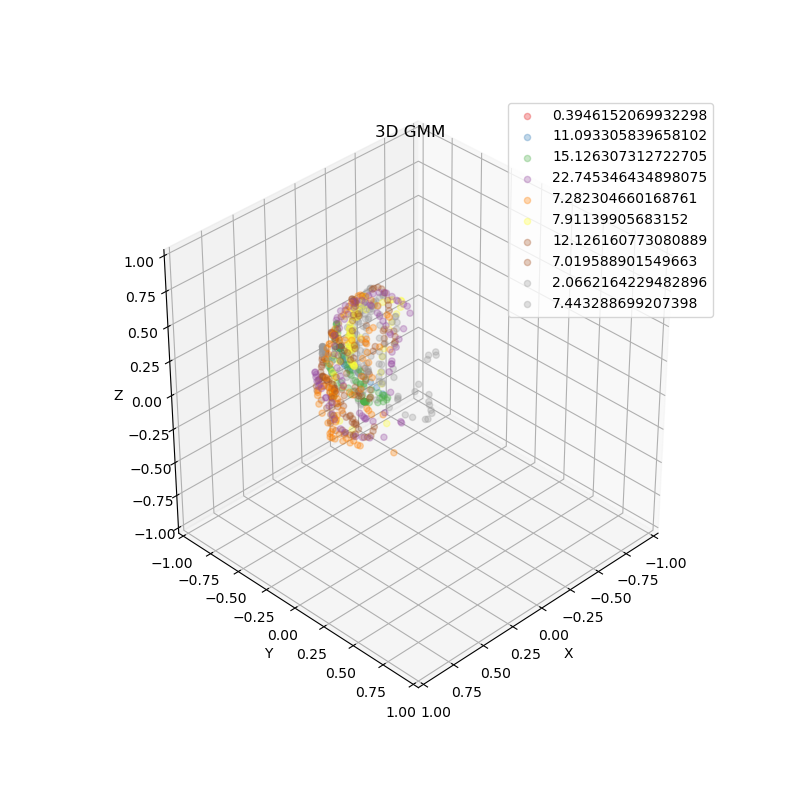
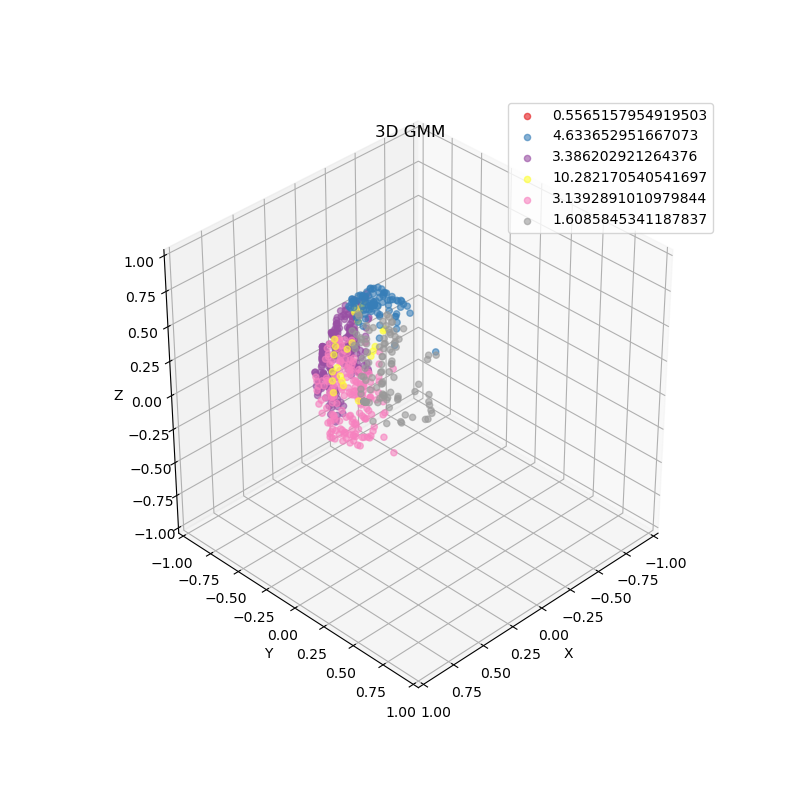
fixed colouring on gmm to actual classes

Changed region(s): [[0.625, 0.125, 0.9062, 0.4062], [0.375, 0.3438, 0.5625, 0.5625], [0.5312, 0.4375, 0.5625, 0.4688]]

diff --git a/scripts/analytics/analytics_utils.py b/scripts/analytics/analytics_utils.py
@@ -101,78 +101,95 @@ def gen_bins(low, high, res=100):
 
 #https://github.com/sitzikbs/gmm_tutorial
 
-def visualize_3d_gmm(points, w, mu, stdev, export=True):
-    '''
-    plots points and their corresponding gmm model in 3D
-    Input: 
-        points: N X 3, sampled points
-        w: n_gaussians, gmm weights
-        mu: 3 X n_gaussians, gmm means
-        stdev: 3 X n_gaussians, gmm standard deviation (assuming diagonal covariance matrix)
-    Output:
-        None
-    '''
+def visualize_3d_gmm(points, w, mu, stdev, cls, export=True):
+	'''
+	plots points and their corresponding gmm model in 3D
+	Input: 
+		points: N X 3, sampled points
+		w: n_gaussians, gmm weights
+		mu: 3 X n_gaussians, gmm means
+		stdev: 3 X n_gaussians, gmm standard deviation (assuming diagonal covariance matrix)
+	Output:
+		None
+	'''
 
-    n_gaussians = mu.shape[1]
-    N = int(np.round(points.shape[0] // n_gaussians))
-    # Visualize data
-    fig = plt.figure(figsize=(8, 8))
-    axes = fig.add_subplot(111, projection='3d')
-    axes.set_xlim([-1, 1])
-    axes.set_ylim([-1, 1])
-    axes.set_zlim([-1, 1])
-    plt.set_cmap('Set1')
-    colors = cmx.Set1(np.linspace(0, 1, n_gaussians))
-    print("w", w)
-    print("mu", mu)
-    print("stdev", stdev)
-    for i in range(n_gaussians):
-        print(i)
-        idx = range(i * N, (i + 1) * N)
-        print(idx)
-        point_set = axes.scatter(points[idx, 0], points[idx, 1], points[idx, 2], alpha=0.3, c=colors[i])
-        point_set.set_label(f"{np.linalg.norm(mu[3:, i])}")
-        # plot_sphere(w=w[i], c=mu[:, i], r=stdev[:, i], ax=axes)
+	n_gaussians = mu.shape[1]
+	N = int(np.round(points.shape[0] // n_gaussians))
+	# Visualize data
+	fig = plt.figure(figsize=(8, 8))
+	axes = fig.add_subplot(111, projection='3d')
+	axes.set_xlim([-1, 1])
+	axes.set_ylim([-1, 1])
+	axes.set_zlim([-1, 1])
+	plt.set_cmap('Set1')
+	colorset = cmx.Set1(np.linspace(0, 1, n_gaussians))
+	colors = np.zeros((points.shape[0], colorset.shape[1]))
+	for c in range(len(colors)):
+		colors[c] = colorset[cls[c]]
+	# print("w", w)
+	# print("mu", mu)
+	# print("stdev", stdev)
+	point_sets = []
+	
+	for i in range(n_gaussians):
+		point_sets.append([])
 
-    plt.title('3D GMM')
-    axes.set_xlabel('X')
-    axes.set_ylabel('Y')
-    axes.set_zlabel('Z')
-    axes.legend()
-    axes.view_init(35.246, 45)
-    if export:
-        if not os.path.exists('images/'): os.mkdir('images/')
-        plt.savefig('images/3D_GMM_demonstration.png', dpi=100, format='png')
-    plt.show()
+	for i in range(len(points)):
+		point_sets[cls[i]].append(points[i])
+	
+
+	for i in range(len(point_sets)):
+		point_sets[i] = np.array(point_sets[i])
+	for i in range(len(point_sets)):
+		# print(i)
+		# print(colorset[i])
+		point_set = axes.scatter(point_sets[i][:, 0], point_sets[i][:, 1], point_sets[i][:, 2], alpha=0.6, c=[colorset[i]])
+		point_set.set_label(f"{np.linalg.norm(mu[3:, i])}")
+	# for i in range(n_gaussians):
+	# 	idx = range(i * N, (i + 1) * N)
+	# 	point_set = axes.scatter(points[idx, 0], points[idx, 1], points[idx, 2], alpha=0.3, c=colors)
+	# 	point_set.set_label(f"{np.linalg.norm(mu[3:, i])}")
+	# 	# plot_sphere(w=w[i], c=mu[:, i], r=stdev[:, i], ax=axes)
+
+	plt.title('3D GMM')
+	axes.set_xlabel('X')
+	axes.set_ylabel('Y')
+	axes.set_zlabel('Z')
+	axes.legend()
+	axes.view_init(35.246, 45)
+	if export:
+		if not os.path.exists('images/'): os.mkdir('images/')
+		plt.savefig('images/3D_GMM_demonstration.png', dpi=100, format='png')
+	plt.show()
 
 
 def plot_sphere(w=0, c=[0,0,0], r=[1, 1, 1], subdev=10, ax=None, sigma_multiplier=3):
-    '''
-        plot a sphere surface
-        Input: 
-            c: 3 elements list, sphere center
-            r: 3 element list, sphere original scale in each axis ( allowing to draw elipsoids)
-            subdiv: scalar, number of subdivisions (subdivision^2 points sampled on the surface)
-            ax: optional pyplot axis object to plot the sphere in.
-            sigma_multiplier: sphere additional scale (choosing an std value when plotting gaussians)
-        Output:
-            ax: pyplot axis object
-    '''
+	'''
+		plot a sphere surface
+		Input: 
+			c: 3 elements list, sphere center
+			r: 3 element list, sphere original scale in each axis ( allowing to draw elipsoids)
+			subdiv: scalar, number of subdivisions (subdivision^2 points sampled on the surface)
+			ax: optional pyplot axis object to plot the sphere in.
+			sigma_multiplier: sphere additional scale (choosing an std value when plotting gaussians)
+		Output:
+			ax: pyplot axis object
+	'''
 
-    if ax is None:
-        fig = plt.figure()
-        ax = fig.add_subplot(111, projection='3d')
-    pi = np.pi
-    cos = np.cos
-    sin = np.sin
-    phi, theta = np.mgrid[0.0:pi:complex(0,subdev), 0.0:2.0 * pi:complex(0,subdev)]
-    x = sigma_multiplier*r[0] * sin(phi) * cos(theta) + c[0]
-    y = sigma_multiplier*r[1] * sin(phi) * sin(theta) + c[1]
-    z = sigma_multiplier*r[2] * cos(phi) + c[2]
-    cmap = cmx.ScalarMappable()
-    cmap.set_cmap('jet')
-    c = cmap.to_rgba(w)
+	if ax is None:
+		fig = plt.figure()
+		ax = fig.add_subplot(111, projection='3d')
+	pi = np.pi
+	cos = np.cos
+	sin = np.sin
+	phi, theta = np.mgrid[0.0:pi:complex(0,subdev), 0.0:2.0 * pi:complex(0,subdev)]
+	x = sigma_multiplier*r[0] * sin(phi) * cos(theta) + c[0]
+	y = sigma_multiplier*r[1] * sin(phi) * sin(theta) + c[1]
+	z = sigma_multiplier*r[2] * cos(phi) + c[2]
+	cmap = cmx.ScalarMappable()
+	cmap.set_cmap('jet')
+	c = cmap.to_rgba(w)
 
-    ax.plot_surface(x, y, z, color=c, alpha=0.2, linewidth=1)
+	ax.plot_surface(x, y, z, color=c, alpha=0.2, linewidth=1)
 
-    return ax
+	return ax

diff --git a/scripts/analytics/analytics_gmm.py b/scripts/analytics/analytics_gmm.py
@@ -6,12 +6,16 @@ from analytics_vis import *
 
 with open(coord_pipe, "rb") as f:
     points = np.loadtxt(f)
+print((np.sum(np.abs(points[:, 3:6])**2,axis=-1)**(1./2)).shape)
+print(points[:, :3].shape)
 
+points = np.c_[(points[:, :3], np.sum(np.abs(points[:, 3:6])**2,axis=-1)**(1./2))]
+print(points.shape)
 #fit the gaussian model
-gmm = GaussianMixture(n_components=10, covariance_type='diag', random_state=0)
+gmm = GaussianMixture(n_components=6, covariance_type='diag', random_state=0)
 
 gmm.fit(points)
-print(gmm.weights_.shape[0])
-visualize_3d_gmm(points, gmm.weights_, gmm.means_[:, :].T, np.sqrt(gmm.covariances_[:, :]).T)
+cls = gmm.predict(points)
+visualize_3d_gmm(points, gmm.weights_, gmm.means_[:, :].T, np.sqrt(gmm.covariances_[:, :]).T, cls)
 
 
